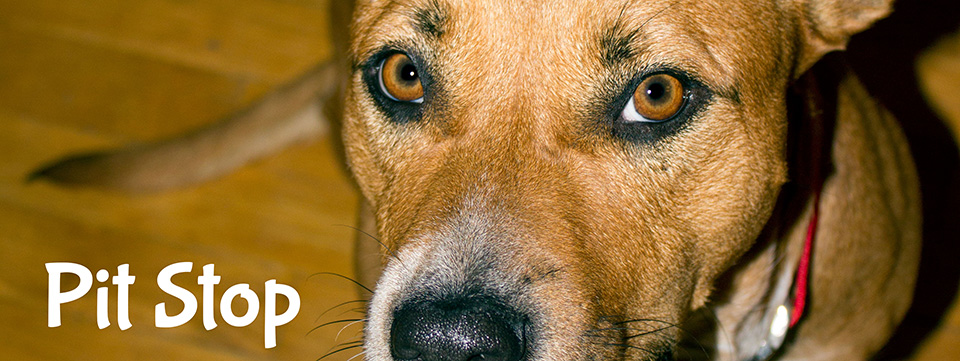
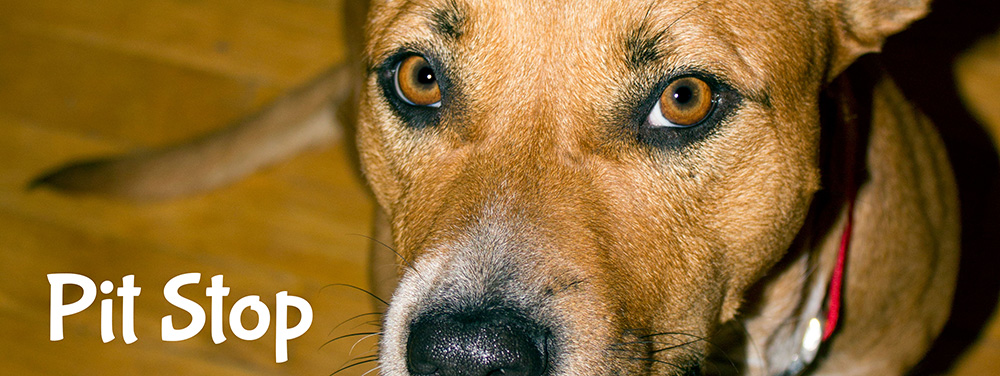
layout and photo adjustments

diff --git a/public/css/app.css b/public/css/app.css
@@ -31,8 +31,8 @@ h1 {
 }
 #text_container {
 	color: #2E6A7F;
-	margin-left: .5em;
-	margin-right: .5em;
+	margin-left: 3em;
+	margin-right: 3em;
 }
 #wrap {
 	background-color: #ffffff;

diff --git a/app/views/text_generator.blade.php b/app/views/text_generator.blade.php
@@ -12,7 +12,7 @@ Pit Stop Placeholder Text Generator
 </div><!--ends header row -->
   
 <div id="wrap" class="row">
-  <div class="large-11 large-centered medium-10 medium-centered columns">
+  <div class="large-11 large-centered medium-11 medium-centered columns">
   <p>Pit Stop offers randomly generated &ldquo;Lorem Ipsum&rdquo; that&rsquo;s the traditional scrambled Latin placeholder text.</p>
   <p>Tired of Lorem&nbsp;Ipsum? You can generate five fixed paragraphs of &ldquo;Muttlem Ipsum,&rdquo; an eloquently meaningless mix of Latin Lorem&nbsp;Ipsum text and doggerel from the works of 19th century poet William&nbsp;Topaz&nbsp;McGonagall.</p>
   </div>
@@ -56,7 +56,7 @@ Pit Stop Placeholder Text Generator
 </div>
 
   <div class="row">
-    <div id="text_container" class="large-11 large-centered medium-11 medium-centered columns">
+    <div id="text_container" class="large-11 medium-11 end columns">
           @foreach ($paragraphs as $paragraph)
               <p>{{{ $paragraph }}}</p>
           @endforeach

diff --git a/app/views/user_generator.blade.php b/app/views/user_generator.blade.php
@@ -13,7 +13,7 @@ Pit Stop Random User Generator
   
 <div id="wrap" class="row">
   
-  <div class="large-12 medium-12 columns">
+  <div class="large-11 large-centered medium-11 medium-centered columns">
   <p>No need to plod doggedly through the tedious task of creating placeholder user data&mdash;just indicate the number of users you need below and generate! Data includes user name, email address and mailing address.</p>
   </div>
 
